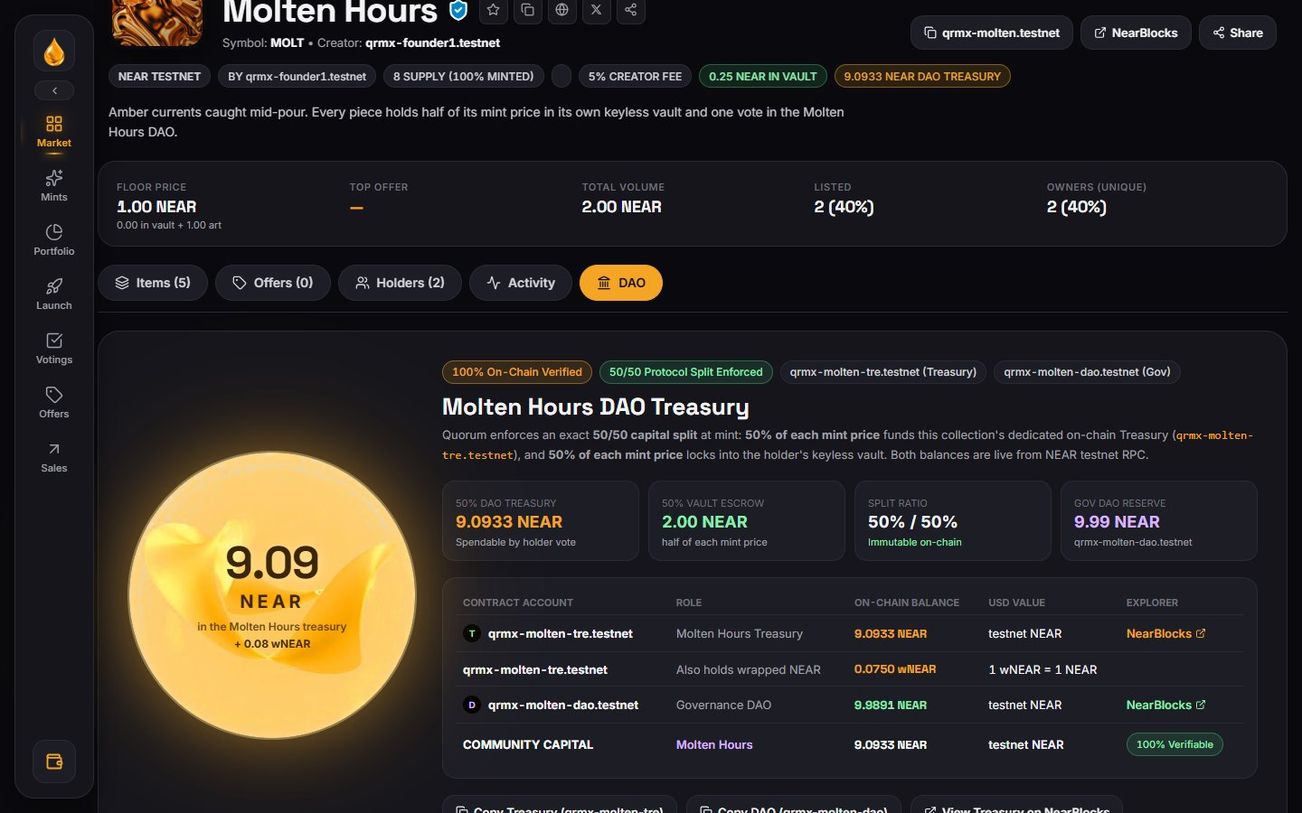
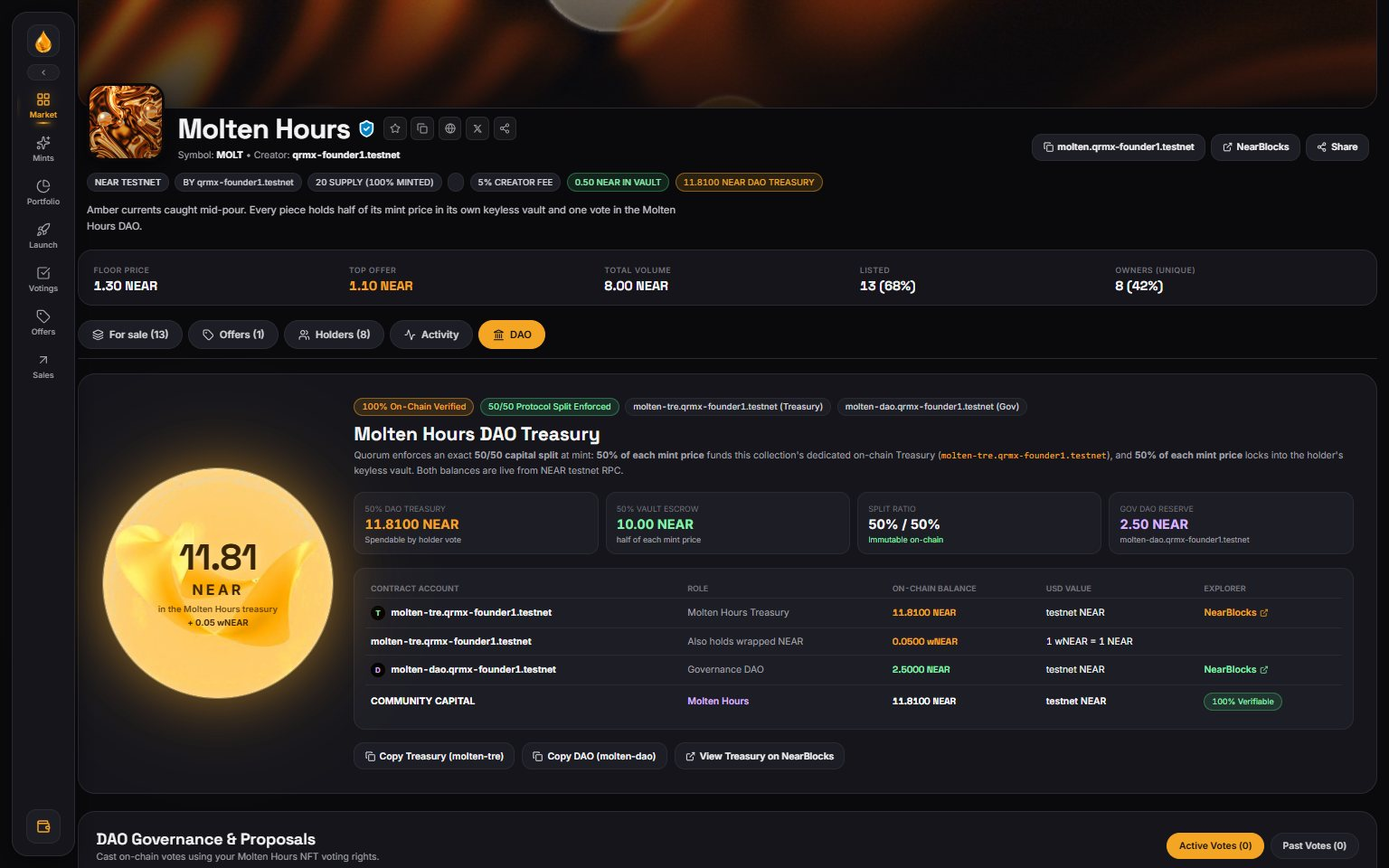
README brought up to date; rows of tabs and cards scroll sideways
README: live numbers re-read from the chain (four collections including OAN, launched
from the app by a user), the factory and Launch page described in full (four stages,
drop-everything reader, cost and the mainnet plan to cut it), the marketplace showing only
listed pieces cheapest first, art hosting and its limits stated honestly, new security
notes for launches and uploads, new test scripts and the bugs they found, fresh
screenshots, and a cleaned-up Launch section (an earlier edit had garbled it).

App: Explore Collections, the collection tab bar, filter pills, the switch-collection row,
the Votings pills, the Launch stepper and Already live now scroll sideways with items
keeping their size when more are added, instead of wrapping or squeezing.

diff --git a/frontend/src/pages/MarketplacePage.tsx b/frontend/src/pages/MarketplacePage.tsx
@@ -370,7 +370,7 @@ export const MarketplacePage: React.FC<MarketplacePageProps> = ({
           </div>
 
           {/* Quick Switch to any other collection */}
-          <div style={{ display: 'flex', gap: '8px', flexWrap: 'wrap', alignItems: 'center' }}>
+          <div className="hscroll" style={{ display: 'flex', gap: '8px', flexWrap: 'wrap', alignItems: 'center' }}>
             {collections
               .filter((c) => c.id !== activeCollection.id)
               .map((col) => (
@@ -696,6 +696,7 @@ export const MarketplacePage: React.FC<MarketplacePageProps> = ({
         {/* OpenSea-Style Collection Navigation Tabs */}
         <div
           role="tablist"
+          className="hscroll"
           style={{
             display: 'flex',
             gap: '8px',
@@ -1066,7 +1067,7 @@ export const MarketplacePage: React.FC<MarketplacePageProps> = ({
               </div>
 
               {/* Event Filter Buttons */}
-              <div style={{ display: 'flex', gap: '6px', flexWrap: 'wrap' }}>
+              <div className="hscroll" style={{ display: 'flex', gap: '6px', flexWrap: 'wrap' }}>
                 {(['all', 'Sale', 'Mint', 'Burn & Redeem', 'List'] as const).map((filter) => (
                   <button
                     key={filter}
@@ -1937,7 +1938,7 @@ export const MarketplacePage: React.FC<MarketplacePageProps> = ({
           </div>
         </div>
 
-        <div style={{ display: 'grid', gridTemplateColumns: 'repeat(auto-fill, minmax(320px, 1fr))', gap: '16px' }}>
+        <div className="hscroll-cards">
           {collections.map((col) => {
             const countForSale = listings.filter(
               (l) => l.collection.toLowerCase() === col.name.toLowerCase() || l.collection === col.symbol
@@ -2049,7 +2050,7 @@ export const MarketplacePage: React.FC<MarketplacePageProps> = ({
         </div>
 
         {/* Collection Filter Buttons */}
-        <div style={{ display: 'flex', gap: '8px', flexWrap: 'wrap' }}>
+        <div className="hscroll" style={{ display: 'flex', gap: '8px', flexWrap: 'wrap' }}>
           <button
             type="button"
             onClick={() => setCollectionFilter('all')}

diff --git a/frontend/src/index.css b/frontend/src/index.css
@@ -301,3 +301,40 @@ input:focus, select:focus, textarea:focus {
     scroll-behavior: auto !important;
   }
 }
+
+/* ---- Rows that scroll sideways instead of wrapping or squeezing their items -------------------------------- */
+/* Tabs and pills: every item keeps its natural size; extra items scroll. */
+.hscroll {
+  display: flex !important;
+  flex-wrap: nowrap !important;
+  gap: 8px;
+  overflow-x: auto !important;
+  overflow-y: hidden;
+  max-width: 100%;
+  padding-bottom: 6px;
+  scroll-snap-type: x proximity;
+  scrollbar-width: thin;
+  scrollbar-color: #3A3A45 transparent;
+  -webkit-overflow-scrolling: touch;
+}
+.hscroll > * { flex: 0 0 auto !important; white-space: nowrap; scroll-snap-align: start; }
+/* The same, but the items share the row while they fit (the stages of a wizard). */
+.hscroll.hscroll-fill > * { flex: 1 0 200px !important; }
+/* A row of cards: every card keeps a fixed width, more cards scroll. */
+.hscroll-cards {
+  display: flex !important;
+  flex-wrap: nowrap !important;
+  gap: 16px;
+  overflow-x: auto !important;
+  overflow-y: hidden;
+  padding-bottom: 10px;
+  scroll-snap-type: x proximity;
+  scrollbar-width: thin;
+  scrollbar-color: #3A3A45 transparent;
+  -webkit-overflow-scrolling: touch;
+}
+.hscroll-cards > * { flex: 0 0 340px !important; max-width: 100%; scroll-snap-align: start; }
+.hscroll-cards.hscroll-cards-sm > * { flex-basis: 240px !important; }
+.hscroll::-webkit-scrollbar, .hscroll-cards::-webkit-scrollbar { height: 6px; }
+.hscroll::-webkit-scrollbar-thumb, .hscroll-cards::-webkit-scrollbar-thumb { background: #3A3A45; border-radius: 999px; }
+.hscroll::-webkit-scrollbar-track, .hscroll-cards::-webkit-scrollbar-track { background: transparent; }

diff --git a/frontend/src/pages/LaunchPage.tsx b/frontend/src/pages/LaunchPage.tsx
@@ -181,7 +181,7 @@ export const LaunchPage: React.FC<LaunchPageProps> = ({ onNavigate, collections,
       </div>
 
       {/* Progress */}
-      <ol style={{ listStyle: 'none', margin: 0, padding: 0, display: 'grid', gridTemplateColumns: 'repeat(4, minmax(0, 1fr))', gap: 8 }}>
+      <ol className="hscroll hscroll-fill" style={{ listStyle: 'none', margin: 0, padding: 0 }}>
         {STAGES.map((s) => {
           const done = s.n < stage || (s.n <= reached && s.n !== stage && okFor(s.n)), active = s.n === stage, open = s.n <= reached;
           return (
@@ -443,7 +443,7 @@ export const LaunchPage: React.FC<LaunchPageProps> = ({ onNavigate, collections,
       {stage === 1 && collections.length > 0 && (
         <div style={{ display: 'flex', flexDirection: 'column', gap: 12 }}>
           <strong style={{ fontSize: 18 }}>Already live</strong>
-          <div style={{ display: 'grid', gridTemplateColumns: 'repeat(auto-fill, minmax(240px, 1fr))', gap: 12 }}>
+          <div className="hscroll-cards hscroll-cards-sm">
             {collections.map((c) => (
               <button
                 key={c.id}

diff --git a/frontend/src/pages/VotingsPage.tsx b/frontend/src/pages/VotingsPage.tsx
@@ -59,7 +59,7 @@ export const VotingsPage: React.FC<VotingsPageProps> = ({ proposals, userNfts, c
         </p>
       </div>
 
-      <div role="tablist" aria-label="Collections" style={{ display: 'flex', flexWrap: 'wrap', gap: 8 }}>
+      <div role="tablist" aria-label="Collections" className="hscroll" style={{ display: 'flex', flexWrap: 'wrap', gap: 8 }}>
         {['all', ...collections.map((c) => c.name)].map((name) => {
           const open = proposals.filter((p) => (name === 'all' || p.collection === name) && p.status === 'Voting open').length;
           const active = filter === name;

diff --git a/README.md b/README.md
@@ -36,6 +36,8 @@ Every Quorum NFT is three things at once:
 
 > **One collection, one DAO, one treasury.** There is no shared DAO and no pooled treasury. Each collection deploys its own NFT contract, DAO and treasury, and they are bound to each other when they are initialised: the DAO and treasury reject calls from any other collection. Votes and money never cross between collections.
 
+> **Anyone can launch their own collection.** From the app's Launch page, with their own pictures and traits and one wallet approval, a creator gets their own keyless NFT, DAO and treasury, live on the market. See [Launch Your Own Collection](#-launch-your-own-collection-testnet-no-help-needed).
+
 ```
    ┌────────────────────────────────────────────────────────────────────────┐
    │                           QUORUM TRI-PRONG                             │
@@ -52,18 +54,21 @@ Every Quorum NFT is three things at once:
 
 ## 🟢 Live Usage: Proof the Platform Works
 
-Quorum is not a mock-up. Three collections of 20 pieces each are live on NEAR testnet, launched on 12 Nov 2026 and minted through the normal public mint by real wallets. Snapshot read from the contracts on launch day (the app always shows the current values):
+Quorum is not a mock-up. Four collections are live on NEAR testnet: three of 20 pieces launched by the team on 12 Nov 2026, and **OAN, launched by a user from the app's Launch page with their own art**. Every piece was minted through the normal public mint by real wallets, and real outside users have bought pieces. Snapshot read from the contracts on 13 Nov 2026 (the app always shows the current values):
 
-| | Molten Hours | Tidewater | Feather Protocol | **Total** |
-|---|---|---|---|---|
-| Minted (public mint, 1 NEAR) | **20 / 20, sold out** | 13 / 20, mint open | 12 / 20, mint open | **45 / 60** |
-| Unique holders | 7 | 7 | 7 | |
-| Listed for sale | 2 | 2 | 2 | **6** |
-| Treasury (50% of every mint, live balance) | 12.5 NEAR | 9.0 NEAR | 8.5 NEAR | **30.0 NEAR** |
-| Vault backing (the other 50%) | **10 wNEAR in 20 vaults** (settled, no vote) | 6.5 NEAR in escrow until the mint ends | 6 NEAR in escrow until the mint ends | **22.5 NEAR** |
+| | Molten Hours | Tidewater | Feather Protocol | OAN (user-launched) | **Total** |
+|---|---|---|---|---|---|
+| Minted by the public mint | **20 / 20, sold out** | 15 / 20, mint open | 14 / 20, mint open | 2 / 20, mint open (2.1 NEAR each) | **51 / 80** |
+| Burned and redeemed from their vaults | 1 | 1 | 2 | 0 | **4** |
+| Unique holders | 8 | 8 | 7 | 1 | |
+| For sale (cheapest first) | 13 (1.30 to 4.15 NEAR) | 9 (1.50 to 3.90) | 9 (1.50 to 3.95) | 0 | **31** |
+| Top offer, NEAR escrowed on chain | 1.10 | 1.20 | 1.40 | none | |
+| Market sales (5% to the DAO, 5% royalty, 90% seller) | 5 (8.0 NEAR) | 0 | 0 | 0 | **5 sales, 8.0 NEAR** |
+| DAO proposals | 6: 2 executed, 3 failed, 1 passed but held back by the 50% spend cap | 0 | 0 | 0 | **6** |
+| Treasury (live balance) | 11.81 NEAR + 0.05 wNEAR | 10.05 NEAR | 9.70 NEAR | 4.40 NEAR | **36.0 NEAR** |
+| Vault backing | 10 wNEAR, settled with no vote | 7 NEAR in escrow until the mint ends | 6 NEAR in escrow until the mint ends | 2.1 NEAR in escrow until the mint ends | |
 
-Each treasury also holds the 2.5 NEAR its account was opened with. After Molten Hours sold out, an ordinary holder (not the DAO) converted its 10 NEAR escrow into exactly 10 wNEAR and filled all 20 vaults, with no vote. Tidewater and Feather Protocol still have 8 pieces each open to mint, and anyone with a testnet wallet can mint one in the app's **Mints** tab.
-
+Treasuries are live account balances, so they include the 2.3 to 2.5 NEAR each account was opened with, the 50% of every mint, 5% of every sale and any donations (OAN's 4.40 is its 2.30 opening funds plus 2.10 from two mints). After Molten Hours sold out, an ordinary holder (not the DAO) converted its 10 NEAR escrow into exactly 10 wNEAR and filled the vaults, with no vote. Tidewater, Feather Protocol and OAN are still minting, so anyone with a testnet wallet can mint one in the app's **Mints** tab.
 ### Test editions: the full lifecycle
 
 Before the launch, three smaller test editions of the same collections ran the whole lifecycle with real transactions: minting, trading, governing, settling and burning. They are still on chain and verifiable, but no longer shown in the app.
@@ -84,31 +89,39 @@ Test-edition contracts: `qrmx-molten.testnet` / `qrmx-molten-dao.testnet` / `qrm
 ### What has been done on chain
 
 - ✅ **Mint:** staged mints. 50% of each price went to the collection treasury and 50% was locked in a new keyless vault.
-- ✅ **Trade:** listings via NEP-178 approvals, purchases, and **on-chain offers** with NEAR escrowed by the market. Accepting an offer is one `nft_approve` transaction.
-- ✅ **Govern:** spend, distribute, settle and text proposals were voted on with 1 NFT = 1 vote and executed after the timelock. Proposals below the 50% turnout rule were refused or failed.
+- ✅ **Launch from the app:** a user's wallet created OAN with one transaction: three keyless accounts (NFTs, DAO, treasury), registered on the market, art uploaded by the user, mint open. Verify with `near account list-keys oan.launch.qrmx-founder1.testnet`: no keys.
+- ✅ **Trade:** listings via NEP-178 approvals, purchases, and **on-chain offers** with NEAR escrowed by the market. Accepting an offer is one `nft_approve` transaction. A sale paid the seller exactly 1.35 NEAR, the DAO 0.075 and the creator 0.075 on a 1.5 NEAR price (checked in the receipts).
+- ✅ **Govern:** spend, distribute, settle and text proposals were voted on with 1 NFT = 1 vote and executed after the timelock. A proposal with 85% turnout passed; one with 15% turnout failed even though every vote was yes; one with a majority of no failed; every tally matched the per-NFT vote records.
+- ✅ **Spend cap:** a passed vote for 8 NEAR out of a 15 NEAR treasury was refused by the treasury (50% cap), the balance did not move, and the proposal stays retryable. A 1 NEAR vote paid exactly 1 NEAR.
 - ✅ **Settle:** escrowed NEAR was converted to wNEAR, first by a DAO vote (test editions) and now, for wNEAR collections, by any account with no vote (live Molten Hours). Each vault was credited pro-rata by anyone, with no special permission. The no-DEX fallback was also exercised.
-- ✅ **Distribute and claim:** treasury payouts to holders were reserved, could not be spent elsewhere, and each was claimable exactly once.
-- ✅ **Burn:** burning paid 90% of the backing to the holder and 10% to the treasury, both before and after settlement.
+- ✅ **Distribute and claim:** 1 NEAR split equally (0.05 per NFT), reserved so it could not be spent elsewhere, and each claim worked exactly once.
+- ✅ **Burn:** burning paid 90% of the backing to the holder and 10% to the treasury, both before and after settlement, plus the holder's unclaimed distribution.
 - ✅ **Rejections:** every privileged method rejected the wrong caller, with a readable reason. See the [Test Suite](#-test-suite).
 
 ### Screens (live, testnet data)
 
-| Marketplace | Collection DAO and treasury | Past votes, each verifiable |
+| Marketplace | A collection's For sale tab, cheapest first | Collection DAO and treasury |
 |---|---|---|
-| <img src="assets/screenshots/live-market.jpg" alt="Marketplace" width="100%"/> | <img src="assets/screenshots/live-dao.jpg" alt="DAO treasury" width="100%"/> | <img src="assets/screenshots/live-votings.jpg" alt="Votings" width="100%"/> |
+| <img src="assets/screenshots/live-market.jpg" alt="Marketplace" width="100%"/> | <img src="assets/screenshots/live-forsale.jpg" alt="For sale, cheapest first" width="100%"/> | <img src="assets/screenshots/live-dao.jpg" alt="DAO treasury" width="100%"/> |
 
+| Past votes, each verifiable | Launch: drop your art, it lines up | Launch: review before anything is sent |
+|---|---|---|
+| <img src="assets/screenshots/live-votings.jpg" alt="Votings" width="100%"/> | <img src="assets/screenshots/live-launch-art.jpg" alt="Launch page, art stage" width="100%"/> | <img src="assets/screenshots/live-launch-review.jpg" alt="Launch page, review stage" width="100%"/> |
 ---
 
 ## 🔍 No Mocks: Every Number Comes from the Chain
 
-The web app has **no backend and no database**. Every figure is read from the contracts over NEAR RPC: supply, owners, listings, offers, floor price, volume, sales, proposals, vote tallies, treasury and vault balances. If an RPC read fails, the app shows an error instead of a placeholder. Every transaction is signed in the user's wallet, and the app re-reads the chain afterwards to confirm it.
+The web app has **no backend and no database**. Every figure is read from the contracts over NEAR RPC: supply, owners, listings, offers, floor price, volume, sales, proposals, vote tallies, treasury and vault balances. If the chain cannot be read, the app keeps showing the last data it read and says so after two failed refreshes in a row; it never invents a figure. Every transaction is signed in the user's wallet, and the app re-reads the chain afterwards to confirm it.
 
-- **Floor price** shows both parts of an NFT's value: *art* (the listing price above the backing) and *vault* (the assets it can be burned for).
+- **The marketplace shows only what is for sale**, cheapest first. A piece that is not listed is not on the market (its owner is still visible under Holders).
+- **Floor price** shows both parts of an NFT's value: *art* (the listing price above the backing) and *backing* (the assets it can be burned for), labelled "in escrow" until the mint ends and "in vault" afterwards.
 - **Treasury** figures are live account balances (NEAR + wNEAR), so donations appear immediately.
 - **Mints** (the sidebar tab, and the strip on the Market page) are computed from each collection's on-chain mint stages. A new collection or stage appears on its own and nothing is listed by hand.
-- **Past votes** link to the DAO contract on NearBlocks, and the tallies match the per-NFT `has_voted` records (checked by `verify-votes.mjs`: 14/14).
+- **Collections launched from the app** are read from the factory contract's public list (`list_collections`), not from anything in the app's code.
+- **Past votes** link to the DAO contract on NearBlocks, and the tallies match the per-NFT `has_voted` records (checked by `verify-votes.mjs` and `acceptance-2.mjs`).
+- **The page does not twitch:** a refresh swaps data in place instead of rebuilding the page (measured on the live site: layout-shift score 0.002 over 75 seconds, page height constant).
 
-What is off-chain: images and the static NEP-177 metadata JSON (hosted with the app), and the optional indexer and API in `code/services/api`.
+What is off-chain: pictures and metadata files. The three launch collections' art is hosted with the app. Art for collections launched from the Launch page is uploaded to public Vercel Blob storage (a centralised host, fine for testnet; IPFS is the plan for mainnet) and is closed once the collection is launched. Also the optional indexer and API in `code/services/api`.
 
 ---
 
@@ -136,6 +149,13 @@ near contract call-function as-read-only market.qrmx-founder1.testnet recent_sal
 
 # Live treasury balance
 near account view-account-summary molten-tre.qrmx-founder1.testnet network-config testnet now
+
+# Collections launched from the app, straight from the factory
+near contract call-function as-read-only launch.qrmx-founder1.testnet list_collections \
+  json-args '{"from_index":0,"limit":20}' network-config testnet now
+
+# A collection made by the factory has no access keys at all (OAN, launched by a user)
+near account list-keys oan.launch.qrmx-founder1.testnet network-config testnet now
 ```
 
 **Without any tools:**
@@ -149,13 +169,14 @@ curl -s https://rpc.testnet.near.org -H 'content-type: application/json' -d '{"j
 
 ## 💎 Live Testnet Deployments
 
-The live collections, launched 12 Nov 2026 with 20 pieces each. All figures in the app are read from these contracts.
+The live collections: three launched by the team on 12 Nov 2026 with 20 pieces each, and every collection launched from the app (listed in the factory registry, for example OAN below). All figures in the app are read from these contracts.
 
 | Collection | NFT contract | DAO | Treasury |
 |---|---|---|---|
 | Molten Hours | [`molten.qrmx-founder1.testnet`](https://testnet.nearblocks.io/address/molten.qrmx-founder1.testnet) | [`molten-dao.qrmx-founder1.testnet`](https://testnet.nearblocks.io/address/molten-dao.qrmx-founder1.testnet) | [`molten-tre.qrmx-founder1.testnet`](https://testnet.nearblocks.io/address/molten-tre.qrmx-founder1.testnet) |
 | Tidewater | [`tidewater.qrmx-founder1.testnet`](https://testnet.nearblocks.io/address/tidewater.qrmx-founder1.testnet) | [`tidewater-dao.qrmx-founder1.testnet`](https://testnet.nearblocks.io/address/tidewater-dao.qrmx-founder1.testnet) | [`tidewater-tre.qrmx-founder1.testnet`](https://testnet.nearblocks.io/address/tidewater-tre.qrmx-founder1.testnet) |
 | Feather Protocol | [`feather-protocol.qrmx-founder1.testnet`](https://testnet.nearblocks.io/address/feather-protocol.qrmx-founder1.testnet) | [`feather-protocol-dao.qrmx-founder1.testnet`](https://testnet.nearblocks.io/address/feather-protocol-dao.qrmx-founder1.testnet) | [`feather-protocol-tre.qrmx-founder1.testnet`](https://testnet.nearblocks.io/address/feather-protocol-tre.qrmx-founder1.testnet) |
+| OAN (launched from the app) | [`oan.launch.qrmx-founder1.testnet`](https://testnet.nearblocks.io/address/oan.launch.qrmx-founder1.testnet) | [`oan-dao.launch.qrmx-founder1.testnet`](https://testnet.nearblocks.io/address/oan-dao.launch.qrmx-founder1.testnet) | [`oan-tre.launch.qrmx-founder1.testnet`](https://testnet.nearblocks.io/address/oan-tre.launch.qrmx-founder1.testnet) |
 
 | Shared | Account |
 |---|---|
@@ -220,7 +241,7 @@ code/contracts/
 
 | NEAR Tool / Standard | Role in Quorum |
 |---|---|
-| **`near-sdk` (Rust 5.30.1)** | All six contracts. Cross-contract promises are written so that no callback returns a joint promise (a NEAR runtime rule the live tests surfaced). |
+| **`near-sdk` (Rust 5.30.1)** | All seven contracts. Cross-contract promises are written so that no callback returns a joint promise (a NEAR runtime rule the live tests surfaced). |
 | **Keyless accounts** | Each per-NFT vault is created without any access key, so its assets can only leave through a burn executed by the collection contract. |
 | **NEP-591 (global contract by hash)** | The vault bytecode is published once. Each new vault references it by hash instead of paying for its own copy. |
 | **NEP-171 / 177 / 178 / 181** | Tokens, metadata, approvals (market listings *and* one-click offer acceptance), and enumeration (the app lists every piece from the chain). |
@@ -231,6 +252,8 @@ code/contracts/
 | **`near-api-js`** | The live end-to-end test suite (`code/scripts/e2e/`) signs and checks real transactions. |
 | **NEAR Connect** (`@hot-labs/near-connect`) | Wallet connection (Meteor, HOT, MyNearWallet and others) with testnet signing. |
 | **Multi-provider RPC** | dRPC → FastNear → rpc.testnet.near.org, with a short view cache, a concurrency limit and automatic fallback on rate limits. |
+| **Sub-accounts and embedded code** | The collection factory creates each collection's three accounts, loads the Quorum contract code that is embedded in the factory itself (so only the real contracts can ever run) and initialises them in one batch, with no access key added. |
+| **Vercel Blob (off-chain, for art only)** | Public storage for the pictures and metadata creators upload on the Launch page, behind an endpoint that allows only pictures and metadata in the right place and closes a collection name once it is launched. |
 
 ---
 
@@ -242,7 +265,7 @@ code/contracts/
 | **Sharding** | Each vault is its own account, so deposits and redemptions spread across shards instead of queueing on one contract. |
 | **Distributions** | A per-asset accumulator index means each NFT computes its share on claim: O(1) gas, not O(holders). |
 | **Bounded execution** | At most 9 asset types, 15 votes per vote transaction, and 3 vault credits per call. There are no unbounded loops. |
-| **Front-end load** | The app shows each collection as soon as its own reads finish, loads per-page data only when that page opens, and splits code by page. First content appears in about 3 seconds from a cold start. |
+| **Front-end load** | The first load shows all collections together, every later refresh swaps data in place (nothing disappears and reappears), per-page data loads only when that page opens, and code is split by page. First content appears in about 3 seconds from a cold start. Rows of collections and tabs scroll sideways instead of squeezing when more are added. |
 
 ---
 
@@ -277,6 +300,13 @@ Mint timing comes only from the stage times fixed at launch, and a collection ca
 8. **Double crediting:** `credited = true` is set before the transfer and reset if the transfer fails, so the credit can be retried.
 9. **Off-market sales:** allowed. The vault travels with the token anyway.
 
+### Launching and uploads
+
+- **The factory has no owner and no admin method.** Its settings (market, vault code, DEX, wNEAR) are fixed when it is created, and the contract code it deploys is embedded in it, so a launched collection can only run the real Quorum contracts.
+- **A launched collection has no access keys.** Nobody, including the creator and the team, can change its code or take its funds outside its rules. The creator is its founder and fee recipient, and the founder can only lower the royalty.
+- **A launch is checked before it is sent:** name, address name, supply (1 to 500), price, fee (at most 90%), mint days and https art links are validated by the contract, and the generated settings are unit-tested against the real NFT, DAO and treasury constructors. A refused launch costs only gas, and a failed creation returns the funding of any account that did not come up.
+- **Uploads are narrow.** The upload endpoint accepts only pictures (3 MB, PNG, JPG, WEBP, GIF) and metadata JSON (20 KB) at fixed paths for pieces 1 to 100, refuses reserved names and any name already launched (so art can never be replaced), and the storage token never leaves the server.
+
 ---
 
 ## 🧪 Test Suite
@@ -296,6 +326,9 @@ Two layers. The second exists because unit tests alone missed real bugs.
 | wNEAR registration fee | The last vault credit came up short |
 | Burn before settlement | Owner deposits in the vault were locked forever |
 | Settlement accepted any balance increase | A dust donation could fake a swap |
+| A regular expression lost its backslashes in the UI | The floor price always showed "0.00 in vault" (found by a manual check, then fixed) |
+| The drop reader fell back to list position | A JSON entry whose own token matched no picture was attached to piece 1 (found by its test, then fixed) |
+| A background refresh emptied the collection list | The page jumped every 30 seconds (found by measuring layout shift, then fixed) |
 
 ```bash
 # Rust contract unit tests
@@ -314,20 +347,34 @@ node scripts/e2e/settle-open.mjs    # a wNEAR collection settles with no vote; a
 node scripts/e2e/founder-locked.mjs # the founder cannot pause a mint or change the vault code
 node scripts/e2e/factory-check.mjs   # a plain wallet launches a collection in one call: keyless, bound, registered, mintable
 node scripts/e2e/acceptance-1.mjs && node scripts/e2e/acceptance-1b.mjs && node scripts/e2e/acceptance-2.mjs   # sales, offers, DAO rules, distributions, burns on the live collections
+
+# The Launch page: art upload rules, the drop-everything reader, and the page's own upload code (live)
+cd ../frontend
+node scripts/upload-check.mjs                            # allowed files go through, everything else is refused
+node scripts/ingest-check.ts                             # a whole folder, 0- and 1-based JSON, CSV, traits before pictures
+node --env-file=.env.local scripts/art-flow-check.ts     # the exact links the NFT contract fetches
 ```
 
 ---
 
 ## 🧑🎨 Launch Your Own Collection (testnet, no help needed)
 
-Anyone can launch a collection from the **Launch** page, with their own art, on NEAR testnet. The page walks through four stages (**Basics, Art, Sale, Launch**) with a progress bar and Back and Next buttons; Next stays disabled, with the reason shown, until a stage is complete, and the last stage is a review of everything before anything is sent:
+Anyone can launch a collection from the **Launch** page, with their own art, on NEAR testnet. The page walks through four stages (**Basics, Art, Sale, Launch**) with a progress bar and Back and Next buttons. Next stays disabled, with the reason shown, until a stage is complete, and the last stage is a review of everything before anything is sent.
 
-1. **Drop everything in one go**: your pictures (PNG, JPG, WEBP, GIF, up to 100), your traits files, or a whole folder. The page reads it and lines it up: pictures become numbered pieces in file-name order, a picture named cover or vatar becomes the cover or avatar, and traits files are matched to their pictures by file name or number. Traits can be a CSV (first column 	oken, optional 
-ame, every other column a trait), one JSON file per piece (7.json with ttributes, the usual OpenSea shape), or one JSON file holding a list or an object of pieces. 0-based and 1-based numbering both work, files can be dropped in any order and in several drops, and anything it can't use is listed instead of silently ignored.
-2. **Check and edit**: rename pieces, add or remove traits by hand, or add a trait to every piece at once.
-3. Set the **name, price, creator fee and how long the mint stays open**, then press **Launch** and approve **one** transaction in your wallet.
+1. **Basics:** name, short name, address name (checked live for availability) and a description.
+2. **Art, in one drop:** drop your pictures (PNG, JPG, WEBP, GIF, up to 100), your traits files, or a whole folder. The page reads it and lines it up:
+   - pictures become numbered pieces in file-name order;
+   - a picture named `cover` or `avatar` becomes the cover or avatar;
+   - traits files are matched to their pictures by file name, then by number (0-based and 1-based both work). Traits can be a CSV (first column `token`, an optional `name` column, every other column a trait), one JSON file per piece (`7.json` with `attributes`, the usual OpenSea shape), or one JSON file holding a list or an object of pieces;
+   - files can come in any order and in several drops (traits dropped before the pictures are remembered), and anything it cannot use is listed instead of silently ignored.
 
-What happens: the app uploads the pictures and metadata to public storage, then the wallet calls the collection factory once. It creates the NFT, DAO and treasury as **keyless** accounts (nobody can change them), registers the collection on the market and opens the mint. The collection then appears in the app for everyone, with each piece's own picture and traits. A launch costs the creator NEAR's storage rent for the three accounts (about 9.4 NEAR for 20 pieces, locked inside them; it is not a fee to Quorum). Once a collection name is launched its art is closed and can never be replaced.
+   You can then rename pieces, add or remove traits by hand, or add a trait to every piece at once.
+3. **Sale:** price, your resale fee, how long the mint stays open, and whether votes are short (testing) or standard.
+4. **Launch:** review, press Launch and approve **one** transaction in your wallet.
+
+What happens: the app uploads the pictures and metadata to public storage, then the wallet calls the collection factory once. It creates the NFT, DAO and treasury as **keyless** accounts (nobody can change them), registers the collection on the market and opens the mint. The collection then appears in the app for everyone, with each piece's own picture and traits. The creator becomes the founder and receives the resale fee. Once a collection name is launched its art is closed and can never be replaced.
+
+**What it costs the creator:** NEAR's storage rent for the three accounts, about 9.4 NEAR for 20 pieces, paid once and locked inside them (NEAR charges 1 NEAR per 100 KB of stored code). It is not a fee to Quorum. On mainnet this drops to under 1 NEAR by publishing the NFT, DAO and treasury code once as NEP-591 global contracts, the way the vault already works (a one-time publish of roughly 80 NEAR for the platform).
 
 ---
 ## 🚀 From Testnet to Mainnet
@@ -341,6 +388,8 @@ The contracts are the same on both networks. What changes is configuration.
 | DAO voting period | 10 minutes (demo) | 3–5 days |
 | Accounts | `qrmx-*.testnet`, `*.qrmx-founder1.testnet` | `<collection>.near`, `dao-<collection>.near`, `tre-<collection>.near` |
 | Market | `market.qrmx-founder1.testnet` | one shared mainnet market account |
+| Launching a collection | factory, creator pays about 9.4 NEAR of storage rent for 20 pieces | factory with the NFT, DAO and treasury code published once as NEP-591 global contracts, so a launch costs the creator under 1 NEAR |
+| Art hosting | Vercel Blob (public storage) | IPFS or another content-addressed store |
 | RPC | dRPC / FastNear testnet | mainnet RPC providers |
 
 ### Mainnet Runbook
@@ -348,7 +397,7 @@ The contracts are the same on both networks. What changes is configuration.
 1. **Build and optimise:** `cargo build --target wasm32-unknown-unknown --release`, then `wasm-opt -Oz`.
 2. **Fund the founder account** on mainnet (`you.near`).
 3. **Publish the vault code once** as a NEP-591 global contract and note its hash.
-4. **Deploy each collection** (NFT, DAO, treasury) with `code/scripts/deploy-collection.sh`, and register it on the market.
+4. **Deploy the collection factory** (and appoint it a registrar on the market), so creators can launch their own keyless collections. The team's own collections can be deployed the same way, or with `code/scripts/deploy-collection.sh`.
 5. **Configure settlement** for Rhea Finance routes, with `min_out` slippage limits on every `SETTLE` proposal.
 6. **Delete the access keys** of the NFT, DAO, treasury and market accounts, then verify with `near account list-keys`.
 7. **Rehearse on the live deployment:** credit vaults (`credit_batch`), burn one token, and confirm the 90 / 10 split.
@@ -394,6 +443,8 @@ npm run dev
 ```
 Open [http://127.0.0.1:3000](http://127.0.0.1:3000). The landing page is at `/` and the app is at `/app`. The app has Market, Mints, Portfolio, Launch, Votings, Offers and Sales. The three launch collections are in `frontend/src/deployments.ts`; every collection launched through the factory is read from the factory contract and appears by itself.
 
+The Launch page uploads art through `frontend/api/blob.js`, which needs a Vercel Blob store (`vercel blob create-store quorum-art --access public`, which sets `BLOB_READ_WRITE_TOKEN`; it is git-ignored in `frontend/.env.local`). `npm run dev` serves the app but not `/api`, so use `vercel dev` locally, or deploy with `vercel --prod`.
+
 ### 4. Optional: indexer and REST API
 ```bash
 cd code/services/api
@@ -427,17 +478,20 @@ GET   /gated/members                   # Token-gated member directory
 
 ## 🗺 Roadmap
 
-- [x] **Phase 1: Core protocol (NEAR Hackathon 2026)**
-  - 7 Rust contracts on `near-sdk 5.30.1`, 154 unit tests and a live testnet e2e suite
+- [x] **Phase 1: Core protocol and self-serve launches (NEAR Hackathon 2026)**
+  - 7 Rust contracts on `near-sdk 5.30.1`, 154 unit tests, live testnet end-to-end and browser checks
   - Keyless per-NFT vaults on a NEP-591 global contract
   - Per-collection DAO and treasury: 50% turnout, 50% spend cap, timelock and expiry
+  - wNEAR collections settle with no vote; DEX assets settle by holder vote with a minimum price
   - Market with listings, escrowed offers and an on-chain sale log
-  - Three live 20-piece collections (Molten Hours sold out), after test editions ran the full lifecycle: minted, traded, governed, settled and burned
+  - Collection factory live: anyone launches their own keyless collection from the Launch page, with their own art and traits, in one wallet transaction
+  - Four live collections, one launched by a user from the app, after test editions ran the full lifecycle: minted, traded, governed, settled and burned
   - Web app reading 100% from chain, plus an optional Neardata indexer and NEP-413 API
-- [ ] **Phase 2: Mainnet & self-serve**
-  - Mainnet launch with keys removed and Rhea settlement
-  - Collection factory is live: anyone can launch their own collection, with their own art and traits, from the Launch page with one wallet transaction (testnet)
-  - Keeper bots for permissionless vault crediting
+- [ ] **Phase 2: Mainnet and cheaper launches**
+  - Mainnet launch with Rhea settlement
+  - NFT, DAO and treasury code as NEP-591 global contracts, cutting a launch from about 9.4 NEAR to under 1 NEAR
+  - Code upgrades for keyless collections by holder vote only (the DAO approves a code hash, anyone submits the matching code)
+  - IPFS for art, keeper bots for permissionless vault crediting
   - Dutch and English auctions, delayed reveals with provenance
 - [ ] **Phase 3: Privacy & advanced liquidity**
   - Sealed-bid auctions and private OTC transfers
@@ -445,7 +499,6 @@ GET   /gated/members                   # Token-gated member directory
   - TEE-managed keeper keys via Shade Agents
 
 ---
-
 ## 📄 License
 
 Licensed under the [MIT License](LICENSE).
